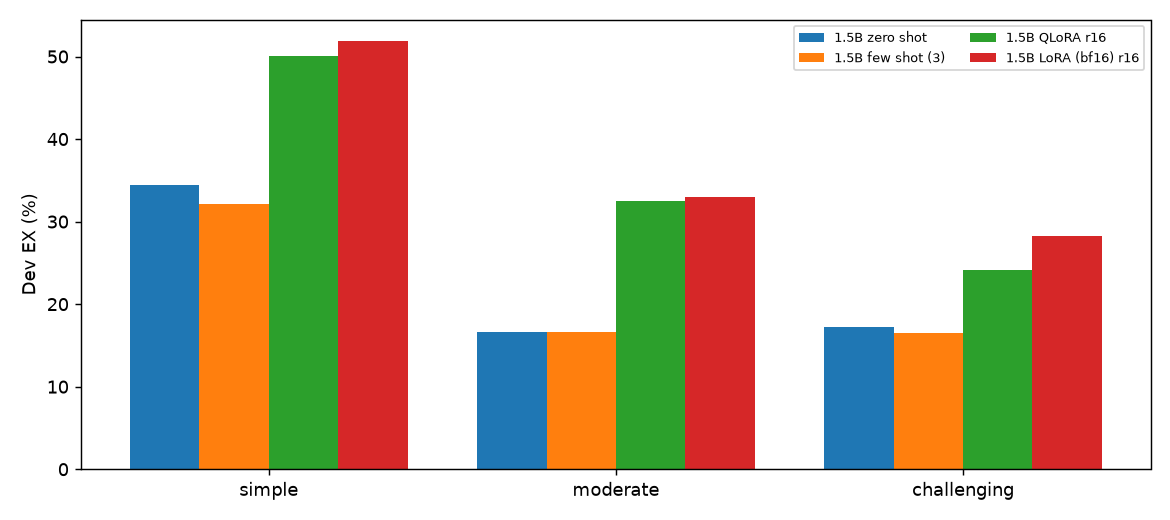
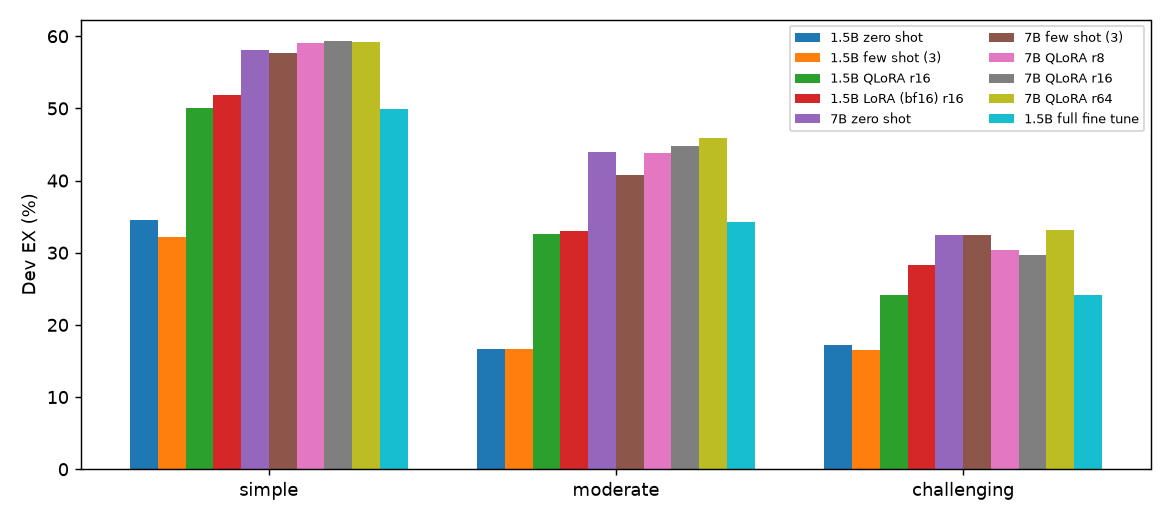
7B results from Modal: rank sweep, 7B baselines, 1.5B full fine tune; cost ledger; README hardware and reproduce

diff --git a/README.md b/README.md
@@ -75,6 +75,12 @@ columns per database), so the task tests schema understanding as much as SQL syn
 | 1.5B few shot (3) | 21.4 | 25.95 [23.81, 28.2] | 28.29 | 32.11 | 16.59 | 16.55 | 49.0 | 29.72 |  |  |  |  |
 | 1.5B QLoRA r16 | 32.2 | 42.31 [39.86, 44.8] | 47.59 | 50.05 | 32.54 | 24.14 | 66.0 | 52.49 | 68.9 | 68.09 | NVIDIA GeForce RTX 4070 Laptop GPU x1 | 2.12 h |
 | 1.5B LoRA (bf16) r16 | 33.6 | 43.94 [41.47, 46.43] | 49.09 | 51.89 | 32.97 | 28.28 | 68.0 | 54.66 | 68.9 | 68.09 | NVIDIA GeForce RTX 4070 Laptop GPU x1 | 1.50 h |
+| 7B zero shot | 53.2 | 51.43 [48.93, 53.93] | 56.26 | 58.16 | 43.97 | 32.41 | 88.0 | 62.91 | 87.8 | 85.6 |  |  |
+| 7B few shot (3) | 50.4 | 50.13 [47.63, 52.63] | 55.74 | 57.62 | 40.73 | 32.41 | 90.0 | 60.74 |  |  |  |  |
+| 7B QLoRA r8 | 56.4 | 51.69 [49.19, 54.19] | 57.63 | 59.03 | 43.75 | 30.34 | 82.0 | 62.47 | 84.76 | 84.44 | NVIDIA A100-SXM4-80GB x1 | 1.45 h |
+| 7B QLoRA r16 | 56.0 | 52.15 [49.65, 54.64] | 57.95 | 59.35 | 44.83 | 29.66 | 84.0 | 63.77 | 84.15 | 83.66 | NVIDIA A100-SXM4-80GB x1 | 1.46 h |
+| 7B QLoRA r64 | 56.0 | 52.67 [50.17, 55.16] | 58.15 | 59.14 | 45.91 | 33.1 | 83.0 | 62.47 | 83.54 | 82.88 | NVIDIA A100-SXM4-80GB x1 | 1.47 h |
+| 1.5B full fine tune | 36.2 | 42.76 [40.31, 45.25] | 47.52 | 49.95 | 34.27 | 24.14 | 65.0 | 54.01 | 34.15 | 52.14 | NVIDIA A100-SXM4-80GB x1 | 0.48 h |
 
 Held back EX vs dev EX on the same three databases is the contamination check: a model that memorised BIRD dev would score clearly higher on dev questions than on new questions over the same schemas.
 
@@ -86,6 +92,12 @@ Held back EX vs dev EX on the same three databases is the contamination check: a
 | 1.5B few shot (3) | 30 | 187 | 660 | 94 | 61 | 2 | 102 |
 | 1.5B QLoRA r16 | 1 | 243 | 307 | 145 | 78 | 0 | 111 |
 | 1.5B LoRA (bf16) r16 | 3 | 241 | 268 | 155 | 75 | 0 | 118 |
+| 7B zero shot | 5 | 189 | 202 | 142 | 75 | 1 | 131 |
+| 7B few shot (3) | 7 | 190 | 217 | 141 | 74 | 2 | 134 |
+| 7B QLoRA r8 | 1 | 192 | 162 | 170 | 74 | 0 | 142 |
+| 7B QLoRA r16 | 1 | 203 | 161 | 155 | 74 | 0 | 140 |
+| 7B QLoRA r64 | 2 | 197 | 157 | 153 | 76 | 0 | 141 |
+| 1.5B full fine tune | 8 | 244 | 247 | 167 | 83 | 1 | 128 |
 
 ### Checkpoint selection on validation (EX %, chosen in bold)
 
@@ -93,6 +105,10 @@ Held back EX vs dev EX on the same three databases is the contamination check: a
 |---|---|---|---|---|---|
 | 1.5B QLoRA r16 | 31.6 | 32.2 | **32.2** | 18464768 | 2.37 |
 | 1.5B LoRA (bf16) r16 | 33.2 | **33.6** | 33.2 | 18464768 | 3.68 |
+| 7B QLoRA r8 | 54.6 | 56.0 | **56.4** | 20185088 | 13.72 |
+| 7B QLoRA r16 | 54.0 | 55.4 | **56.0** | 40370176 | 13.83 |
+| 7B QLoRA r64 | 52.0 | 54.6 | **56.0** | 161480704 | 14.74 |
+| 1.5B full fine tune | 33.4 | 34.0 | **36.2** | all | 26.95 |
 
 ### Knowing when it is wrong: voting and abstention (BIRD dev)
 
@@ -108,13 +124,7 @@ Held back EX vs dev EX on the same three databases is the contamination check: a
 
 These runs are configured but have no logged results yet. No numbers are reported for them.
 
-* 7B zero shot (`configs/rented/01_qwen7b_zeroshot.yaml`, A100 80GB)
-* 7B few shot (3) (`configs/rented/02_qwen7b_fewshot.yaml`, A100 80GB)
-* 7B QLoRA r8 (`configs/rented/10_qwen7b_qlora_r8.yaml`, A100 80GB)
-* 7B QLoRA r16 (`configs/rented/11_qwen7b_qlora_r16.yaml`, A100 80GB)
-* 7B QLoRA r64 (`configs/rented/12_qwen7b_qlora_r64.yaml`, A100 80GB)
 * 7B DoRA (4 bit base) at best sweep rank (`configs/rented/20_qwen7b_dora_best.yaml`, A100 80GB)
-* 1.5B full fine tune (`configs/rented/30_qwen1.5b_full.yaml`, A100 80GB)
 
 ![dev_ex_by_difficulty.png](docs/figures/dev_ex_by_difficulty.png)
 ![learn_vs_forget.png](docs/figures/learn_vs_forget.png)
@@ -126,10 +136,12 @@ These runs are configured but have no logged results yet. No numbers are reporte
 | Runs | Hardware |
 |---|---|
 | data, tests, 1.5B baselines, 1.5B QLoRA and LoRA, smoke test | Lenovo Legion Pro 5, RTX 4070 Laptop 8 GB, WSL2 Ubuntu 24.04, driver 560.94 |
-| 7B baselines, 7B rank sweep, 7B DoRA, 1.5B full fine tune | 1x A100 80GB (RunPod), one scripted session |
+| 7B baselines, 7B rank sweep, 7B DoRA, 1.5B full fine tune | 1x A100 SXM4 80GB on Modal, free monthly credit |
 
 The exact GPU, package versions, git commit, seed, config and wall clock of every stage are written to
-`runs/<name>/<stage>_meta.json`.
+`runs/<name>/<stage>_meta.json`. Every A100 job's measured hours and cost are in `docs/modal_ledger.json`: the
+sweep, both 7B baselines and the 1.5B full fine tune used 7.8 A100 hours and $18.43 of the $30 monthly credit
+(including the smoke test). DoRA needs up to $15 more, so the spend cap deferred it to the next credit cycle.
 
 ## Reproduce
 
@@ -137,11 +149,14 @@ The exact GPU, package versions, git commit, seed, config and wall clock of ever
 make env                      # venv with torch 2.13 cu129 + vLLM 0.32 cu129, then a GPU check
 make all PROFILE=local        # data, tests, 1.5B baselines, 1.5B QLoRA + LoRA, report
 make smoke                    # rehearse the rented session on Qwen2.5 Coder 0.5B with 20 examples
-# on the A100 (network volume at /workspace):
-bash scripts/runpod_session.sh   # every 7B job + 1.5B full fine tune, then stops the pod
-# back on the laptop, after copying /workspace/querycraft_sync/runs/* into runs/:
-make report
+# A100 jobs on Modal (spend capped per credit cycle; see querycraft/budget.py):
+modal run scripts/modal_app.py::prepare            # BIRD onto the volume, splits, tests (CPU)
+modal run --detach scripts/modal_app.py            # every 7B job + 1.5B full fine tune that fits the cap
+modal volume get querycraft-vol runs/<name> runs/  # copy each run back, then:
+make report && make audit
 ```
+
+`scripts/runpod_session.sh` runs the same queue on any single rented GPU box instead.
 
 Individual stages: `python -m querycraft.train <config>`, `python -m querycraft.run_eval <config>`,
 `python -m querycraft.evaluate <predictions.jsonl>`.

diff --git a/docs/results.md b/docs/results.md
@@ -6,6 +6,12 @@
 | 1.5B few shot (3) | 21.4 | 25.95 [23.81, 28.2] | 28.29 | 32.11 | 16.59 | 16.55 | 49.0 | 29.72 |  |  |  |  |
 | 1.5B QLoRA r16 | 32.2 | 42.31 [39.86, 44.8] | 47.59 | 50.05 | 32.54 | 24.14 | 66.0 | 52.49 | 68.9 | 68.09 | NVIDIA GeForce RTX 4070 Laptop GPU x1 | 2.12 h |
 | 1.5B LoRA (bf16) r16 | 33.6 | 43.94 [41.47, 46.43] | 49.09 | 51.89 | 32.97 | 28.28 | 68.0 | 54.66 | 68.9 | 68.09 | NVIDIA GeForce RTX 4070 Laptop GPU x1 | 1.50 h |
+| 7B zero shot | 53.2 | 51.43 [48.93, 53.93] | 56.26 | 58.16 | 43.97 | 32.41 | 88.0 | 62.91 | 87.8 | 85.6 |  |  |
+| 7B few shot (3) | 50.4 | 50.13 [47.63, 52.63] | 55.74 | 57.62 | 40.73 | 32.41 | 90.0 | 60.74 |  |  |  |  |
+| 7B QLoRA r8 | 56.4 | 51.69 [49.19, 54.19] | 57.63 | 59.03 | 43.75 | 30.34 | 82.0 | 62.47 | 84.76 | 84.44 | NVIDIA A100-SXM4-80GB x1 | 1.45 h |
+| 7B QLoRA r16 | 56.0 | 52.15 [49.65, 54.64] | 57.95 | 59.35 | 44.83 | 29.66 | 84.0 | 63.77 | 84.15 | 83.66 | NVIDIA A100-SXM4-80GB x1 | 1.46 h |
+| 7B QLoRA r64 | 56.0 | 52.67 [50.17, 55.16] | 58.15 | 59.14 | 45.91 | 33.1 | 83.0 | 62.47 | 83.54 | 82.88 | NVIDIA A100-SXM4-80GB x1 | 1.47 h |
+| 1.5B full fine tune | 36.2 | 42.76 [40.31, 45.25] | 47.52 | 49.95 | 34.27 | 24.14 | 65.0 | 54.01 | 34.15 | 52.14 | NVIDIA A100-SXM4-80GB x1 | 0.48 h |
 
 Held back EX vs dev EX on the same three databases is the contamination check: a model that memorised BIRD dev would score clearly higher on dev questions than on new questions over the same schemas.
 
@@ -17,6 +23,12 @@ Held back EX vs dev EX on the same three databases is the contamination check: a
 | 1.5B few shot (3) | 30 | 187 | 660 | 94 | 61 | 2 | 102 |
 | 1.5B QLoRA r16 | 1 | 243 | 307 | 145 | 78 | 0 | 111 |
 | 1.5B LoRA (bf16) r16 | 3 | 241 | 268 | 155 | 75 | 0 | 118 |
+| 7B zero shot | 5 | 189 | 202 | 142 | 75 | 1 | 131 |
+| 7B few shot (3) | 7 | 190 | 217 | 141 | 74 | 2 | 134 |
+| 7B QLoRA r8 | 1 | 192 | 162 | 170 | 74 | 0 | 142 |
+| 7B QLoRA r16 | 1 | 203 | 161 | 155 | 74 | 0 | 140 |
+| 7B QLoRA r64 | 2 | 197 | 157 | 153 | 76 | 0 | 141 |
+| 1.5B full fine tune | 8 | 244 | 247 | 167 | 83 | 1 | 128 |
 
 ### Checkpoint selection on validation (EX %, chosen in bold)
 
@@ -24,6 +36,10 @@ Held back EX vs dev EX on the same three databases is the contamination check: a
 |---|---|---|---|---|---|
 | 1.5B QLoRA r16 | 31.6 | 32.2 | **32.2** | 18464768 | 2.37 |
 | 1.5B LoRA (bf16) r16 | 33.2 | **33.6** | 33.2 | 18464768 | 3.68 |
+| 7B QLoRA r8 | 54.6 | 56.0 | **56.4** | 20185088 | 13.72 |
+| 7B QLoRA r16 | 54.0 | 55.4 | **56.0** | 40370176 | 13.83 |
+| 7B QLoRA r64 | 52.0 | 54.6 | **56.0** | 161480704 | 14.74 |
+| 1.5B full fine tune | 33.4 | 34.0 | **36.2** | all | 26.95 |
 
 ### Knowing when it is wrong: voting and abstention (BIRD dev)
 
@@ -39,13 +55,7 @@ Held back EX vs dev EX on the same three databases is the contamination check: a
 
 These runs are configured but have no logged results yet. No numbers are reported for them.
 
-* 7B zero shot (`configs/rented/01_qwen7b_zeroshot.yaml`, A100 80GB)
-* 7B few shot (3) (`configs/rented/02_qwen7b_fewshot.yaml`, A100 80GB)
-* 7B QLoRA r8 (`configs/rented/10_qwen7b_qlora_r8.yaml`, A100 80GB)
-* 7B QLoRA r16 (`configs/rented/11_qwen7b_qlora_r16.yaml`, A100 80GB)
-* 7B QLoRA r64 (`configs/rented/12_qwen7b_qlora_r64.yaml`, A100 80GB)
 * 7B DoRA (4 bit base) at best sweep rank (`configs/rented/20_qwen7b_dora_best.yaml`, A100 80GB)
-* 1.5B full fine tune (`configs/rented/30_qwen1.5b_full.yaml`, A100 80GB)
 
 ![dev_ex_by_difficulty.png](docs/figures/dev_ex_by_difficulty.png)
 ![learn_vs_forget.png](docs/figures/learn_vs_forget.png)
